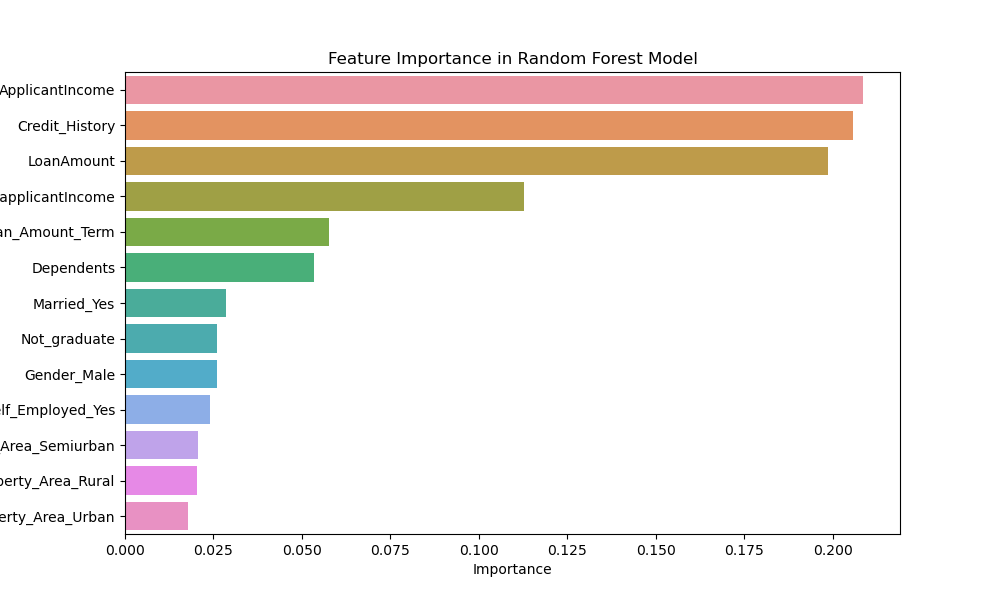
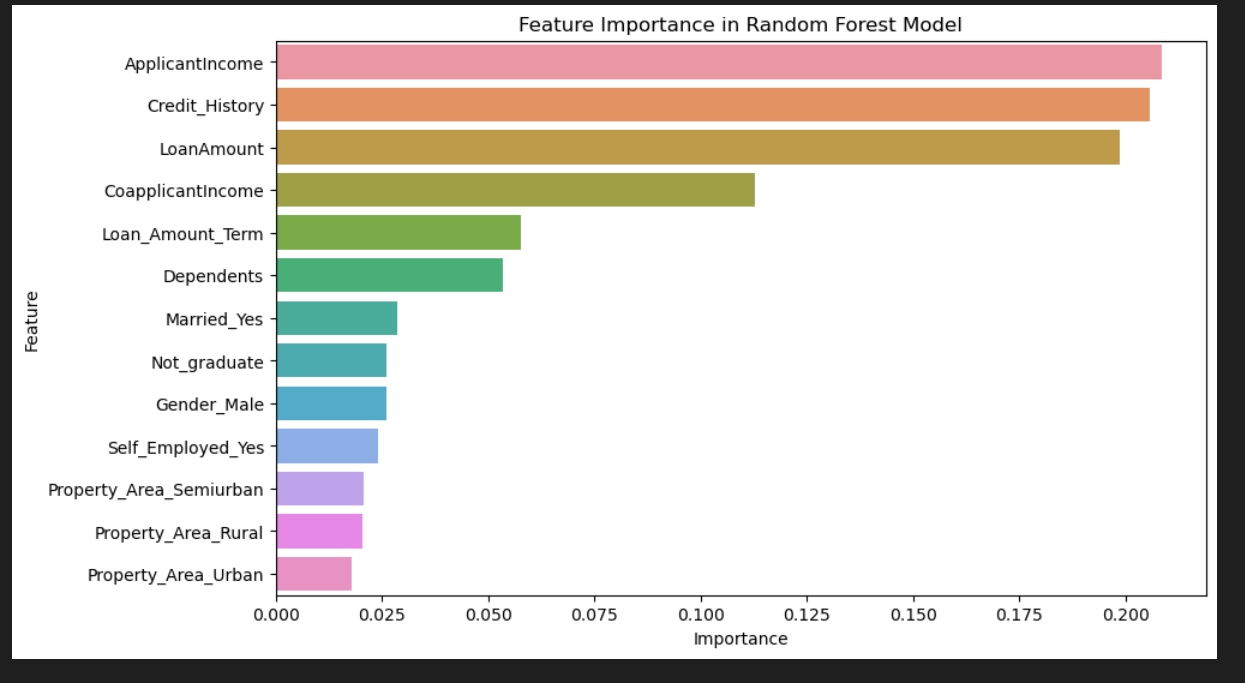
Edited readme
Added images to the Images folder and edited readme.

diff --git a/README.md b/README.md
@@ -1,8 +1,141 @@
-# project4_Loan_approval_predictor
+# Loan Apporval Predictor
 
 <img width="531" alt="image" src="https://github.com/rajbondili/project4_Loan_approval_predictor/assets/142377615/5c2e8f68-cd32-49f1-bb77-4beb093a4df2">
 
 
+# Overview
 
+This project, Loan Approval Prediction Analysis using historical data to build a model that can predict whether a loan application is likely to be approved or rejected based on the machine learning algorithms.
+The statistical techniques are used to identify patterns and relationships within the dataset alongwith the machine learning algorithms that will contribute to the loan approval decision.
+
+# DataSource
+
+The dataset was in the CSV file format.
 <img width="341" alt="image" src="https://github.com/rajbondili/project4_Loan_approval_predictor/assets/142377615/f563a3fe-075d-4a50-81cb-bd72f3e74d63">
 
+
+# Categorical Columns of Dataset
+The analysis of the categorical columns of dataset are as follows:
+
+    > Loan Approval Status: About 66.6% of applicants have been granted loan.
+    > Sex: In the dataset the primary income consists of Men which is approximately three times than Women.
+    > Martial Status: 66% of the population in the dataset is Married and they are more likely to be granted loans.
+    > Dependents: Majority of the population have zero dependents and are also likely to accepted for loan.
+    > Education: About 83% of the population is Graduate and graduates have higher propotion of loan approval.
+    > Employment: 83% of population is not self employed.
+    > Property Area: More applicants from Semi-urban and likely to be granted loans.
+    > Credit history: Applicant with credit history are far more likely to be accepted.
+    > Loan Amount Term: Majority of the loans taken are for 360 Months (30 years). 
+
+<img width="531" alt="image" src=".\Images\Categorical_values.png">
+
+# Machine Learning Model
+The following are the machine learning model used to predict the loan appliaction whether it will be approved or rejected. All the models Accuracy and Classification Reports taken into consideration to use the best model to predict the loan application. So the RandomForestClassifier machine learning model has the highest accuracy of 87% with the average precision higher than 80% in predicting the application, this model is being used in the flask application as the back-end model to predict the applications.
+
+1. Logistic regression
+    ***********************************************************************
+        Accuracy: 82%
+        Classification Report: 
+                            precision    recall  f1-score   support
+
+                False           0.71      0.48      0.57        25
+                True            0.85      0.93      0.89        76
+
+                accuracy                           0.82        101
+                macro avg       0.78      0.71      0.73       101
+                weighted avg    0.81      0.82      0.81       101
+    ************************************************************************
+
+ 2. Decision Tree
+    ************************************************************************
+        Accuracy: 73%
+        Classification Report: 
+                        precision    recall  f1-score   support
+
+                False       0.47      0.56      0.51        25
+                True        0.85      0.79      0.82        76
+
+            accuracy                            0.73       101
+            macro avg       0.66      0.67      0.66       101
+            weighted avg    0.75      0.73      0.74       101
+    *************************************************************************
+
+ 3. Support Vector Machine
+    *************************************************************************
+        Accuracy: 75%
+        Classification Report: 
+                        precision    recall  f1-score   support
+
+            False           0.00      0.00      0.00        25
+            True            0.75      1.00      0.86        76
+
+        accuracy                                0.75       101
+        macro avg           0.38      0.50      0.43       101
+        weighted avg        0.57      0.75      0.65       101
+    **************************************************************************
+
+ 4. K-Nearest Neighbors
+    
+    **************************************************************************
+        Accuracy: 71%
+        Classification Report: 
+                        precision    recall  f1-score   support
+
+            False           0.25      0.08      0.12        25
+            True            0.75      0.92      0.83        76
+
+        accuracy                                0.71       101
+        macro avg           0.50      0.50      0.47       101
+        weighted avg        0.63      0.71      0.65       101
+
+    **************************************************************************
+
+ 5. RandomForestClassifier
+    
+    **************************************************************************
+        Accuracy: 87%
+        Classification Report: 
+                        precision    recall  f1-score   support
+
+                False       0.80      0.64      0.71        25
+                True        0.89      0.95      0.92        76
+
+            accuracy                            0.87       101
+            macro avg       0.84      0.79      0.81       101
+            weighted avg    0.87      0.87      0.87       101
+    ***************************************************************************
+
+# Random Forest Classifier
+
+Random forest is a commonly-used machine learning algorithm which combines the output of multiple decision trees to reach a single result.
+
+The below chart shows us the important fields on the which most of the decision made by the algorithm to reject or approve the loan application. The Figure 1 is generated by the random forest classifier algorithm whereas Figure 2 gives the same results when we find out the correlation between the fields to predict the loan application. The model best predicted according to the test data and actual data as per the confusion matrix shown in the Figure 3. Both the pecision and recall quantifies and overall accuracy of the model is above 80% as shown in Figure 4   <br />
+
+<p align="left">
+Figure 1: Important Features Random Forest Classifier (Machine Learning Model)<br clear="both" />
+<img align="left" width="531" alt="image" src=".\Images\Feature_Importance_in_Random_Forest_Model.png"><br clear="both"/>
+</p>
+
+<p align="left">
+Figure 2: Correlation of Dataset Fields<br clear="both" />
+<img align="left" width="531" alt="image" src=".\Images\Correlation_Chart_Dataset_Fields.PNG"><br clear="both"/>
+</p>
+
+<p align="left">
+Figure 3: Confusion Matrix Random Forest Classifier (Machine Learning Model)<br clear="both" />
+<img align="left" width="531" alt="image" src=".\Images\Random_Forest_Confusion_Matrix.PNG"><br clear="both"/>
+</p>
+
+<p align="left">
+Figure 4: Classification Report Random Forest Classifier (Machine Learning Model)<br clear="both" />
+<img align="left" alt="image" src=".\Images\Random_Forest_Classification_Chart.PNG"><br clear="both"/>
+</p>
+
+# Conclusion
+To conclude, Random Forest Classifier is giving the best accuracy greater than 80% on testing dataset. As per chart for important features figure 1 and the heatmap shown in the figure 2, the Applicant Income, Credit_History and Loan_Amount plays vital role in depicting approval and rejection of the loan application. However, we are lacking in the test data as our dataset is having success rate of loan approval for 66%. it doesnot consider various actual world field's like Co-Applicant Income, Dependants, type of area and property looking by the applicant. Apart from that, it does not include part of the income being spend on the other factors like food and accomodation, recreatinal activities, part of income going towards the dependents and investing etc. once these factors comes into consideration might be different algorithm need for this type of prediction.
+
+# References
+https://www.geeksforgeeks.org/<br clear="both" />
+https://stackoverflow.com/<br clear="both" />
+https://docs.github.com/<br clear="both" />
+https://medium.com/<br clear="both" />
